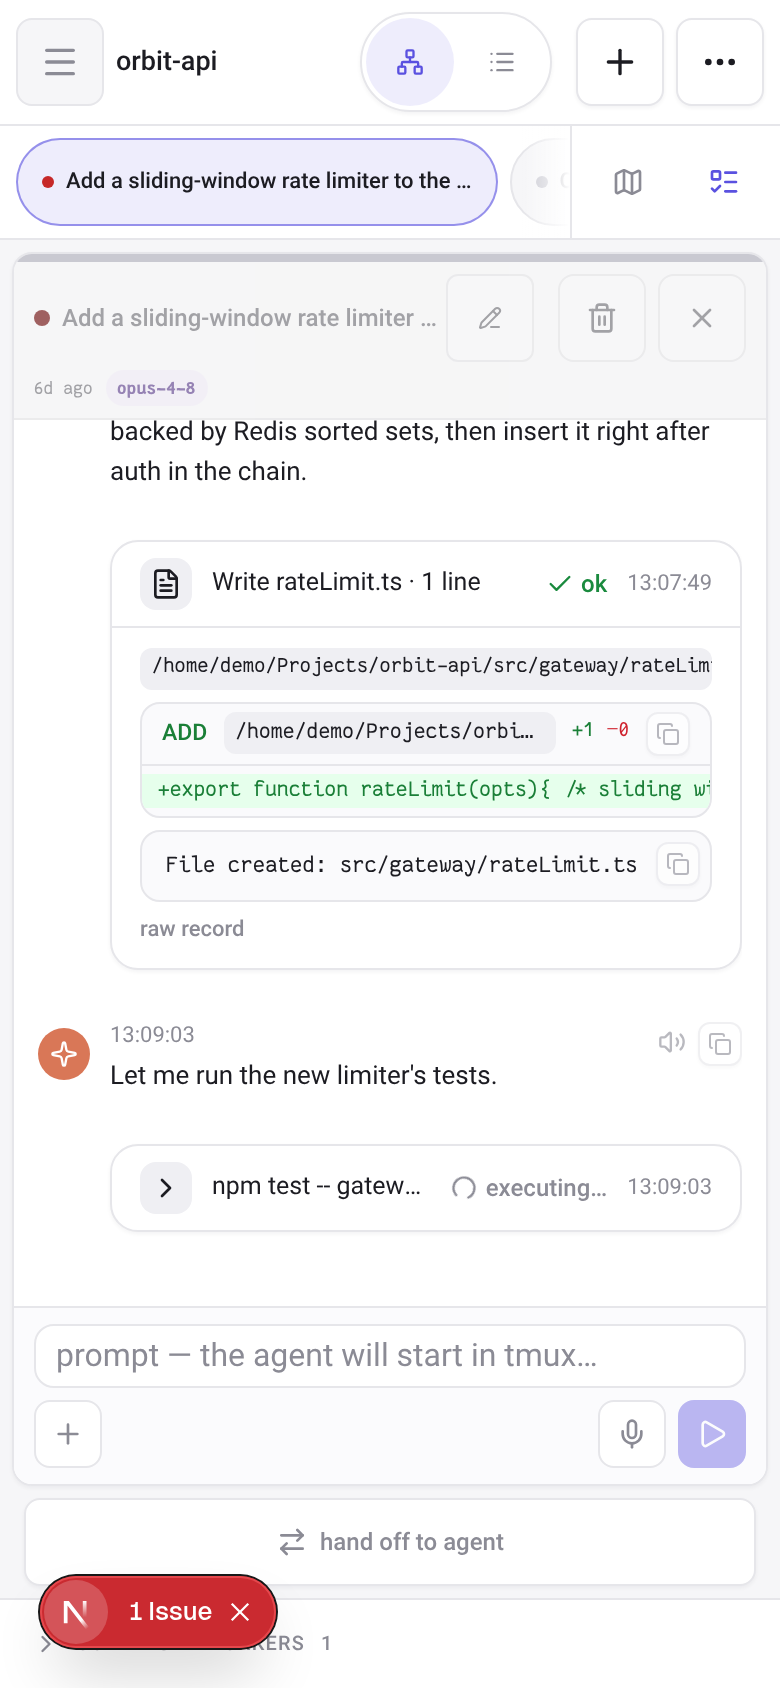
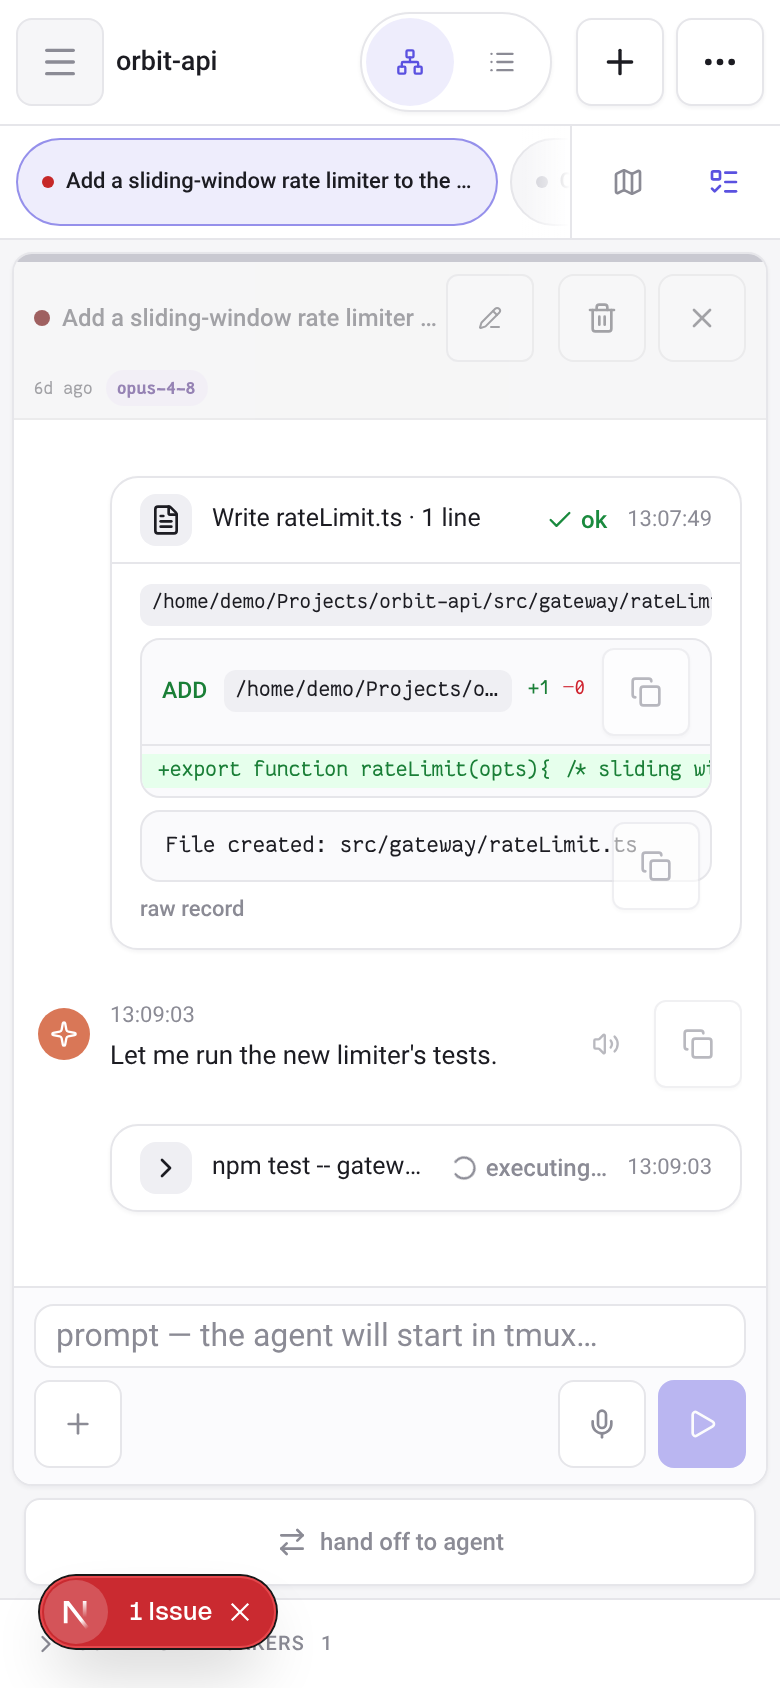
fix: address review round 5 — 44px composer, feed, rename-retry, and drawer controls (#145)
Findings:
- Composer (finding 1): the image and send controls (ComposerBar) plus the mic
  control (MicButton) and the conversation composer's tools (interrupt, compact,
  + toggle, image) are 44px on mobile; desktop keeps the compact p-2.
- Transcript actions (finding 2): the feed CopyButton and SpeakButton triggers
  are 44px on mobile, and the SpeakButton paid-confirmation actions (backend
  picks, cancel, speak) are min-h-11.
- Rename retry (finding 3): the failed-rename Retry uses the same 44px mobile
  sizing as Save/Reset/Cancel.

Sweep of the remaining reachable-at-390px controls, all mobile-gated so desktop
is unchanged: project-drawer rows/overview/archive toggle/filter input
(ProjectRail), and the rail-header language / push-bell / access-QR buttons.

Refresh after-scheme screenshot (44px composer + feed controls).

diff --git a/src/components/MicButton.tsx b/src/components/MicButton.tsx
@@ -3,6 +3,7 @@
 import { useEffect, useRef, useState } from "react";
 
 import { Check, Copy, Loader2, Mic, Square, X } from "@/components/icons";
+import { useIsMobile } from "@/hooks/useIsMobile";
 import { fmtElapsed, METER_HEIGHT, METER_WIDTH, prewarmLiveToken, type UseDictationResult } from "@/hooks/useDictation";
 import { micVisual } from "@/lib/dictationTimer";
 import { translate, useLocale } from "@/lib/i18n";
@@ -216,6 +217,7 @@ export function MicButtonView({
   busy = false,
 }: MicButtonViewProps) {
   const { t } = useLocale();
+  const isMobile = useIsMobile();
   const [menuOpen, setMenuOpen] = useState(false);
   const visual = micVisual({ phase, elapsed, maxSeconds, capStopped });
   const handleMain = () => {
@@ -248,7 +250,9 @@ export function MicButtonView({
           aria-label={t("mic.stopRecognize")}
           title={warn ? t("mic.timeLeft", { time: fmtElapsed(remaining) }) : undefined}
           onClick={handleMain}
-          className={`flex items-center gap-1.5 rounded-[8px] border px-2 py-2 text-[11px] font-bold tabular-nums focus-visible:outline-none focus-visible:ring-2 ${
+          className={`flex items-center gap-1.5 rounded-[8px] border px-2 text-[11px] font-bold tabular-nums focus-visible:outline-none focus-visible:ring-2 ${
+            isMobile ? "min-h-11" : "py-2"
+          } ${
             warn
               ? "border-[#e0ae45]/70 bg-[#fdf3dd] text-[#b07d1f] focus-visible:ring-[#e0ae45]/50"
               : "border-err/50 bg-[#fff2f2] text-err focus-visible:ring-err/40"
@@ -261,7 +265,9 @@ export function MicButtonView({
           type="button"
           aria-label={t("mic.cancel")}
           onClick={discard}
-          className="inline-flex items-center justify-center rounded-[8px] border border-line bg-panel p-2 text-dim hover:text-err focus-visible:outline-none focus-visible:ring-2 focus-visible:ring-accent/40"
+          className={`inline-flex items-center justify-center rounded-[8px] border border-line bg-panel text-dim hover:text-err focus-visible:outline-none focus-visible:ring-2 focus-visible:ring-accent/40 ${
+            isMobile ? "h-11 w-11" : "p-2"
+          }`}
         >
           <X className="h-3.5 w-3.5" aria-hidden />
         </button>
@@ -304,9 +310,9 @@ export function MicButtonView({
           event.preventDefault();
           setMenuOpen((open) => !open);
         }}
-        className={`inline-flex shrink-0 items-center justify-center rounded-[8px] border p-2 focus-visible:outline-none focus-visible:ring-2 focus-visible:ring-accent/40 disabled:opacity-60 ${
-          phase === "starting" ? "border-accent/40 bg-accent/10 text-accent" : "border-line bg-panel text-dim hover:text-accent"
-        }`}
+        className={`inline-flex shrink-0 items-center justify-center rounded-[8px] border focus-visible:outline-none focus-visible:ring-2 focus-visible:ring-accent/40 disabled:opacity-60 ${
+          isMobile ? "h-11 w-11" : "p-2"
+        } ${phase === "starting" ? "border-accent/40 bg-accent/10 text-accent" : "border-line bg-panel text-dim hover:text-accent"}`}
       >
         {phase === "busy" ? (
           <Loader2 className="h-4 w-4 animate-spin" aria-hidden />

diff --git a/src/components/ProjectRail.tsx b/src/components/ProjectRail.tsx
@@ -2,6 +2,7 @@
 
 import { useMemo, useState } from "react";
 
+import { useIsMobile } from "@/hooks/useIsMobile";
 import { useLocale } from "@/lib/i18n";
 import type { FileEntry, ProjectCatalogEntry } from "@/lib/types";
 import type { Pipeline } from "@/lib/pipelines/types";
@@ -36,6 +37,7 @@ interface Props {
 
 export function ProjectRail({ files, projectCatalog, pipelines, workflows, archivedProjects, selected, loaded, now, onSelect }: Props) {
   const { t } = useLocale();
+  const isMobile = useIsMobile();
   const [query, setQuery] = useState("");
   const [archiveOpen, setArchiveOpen] = useState(false);
   const summaries = useMemo(() => buildProjectSummaries(files, now, workflows, projectCatalog, pipelines), [files, now, workflows, projectCatalog, pipelines]);
@@ -69,7 +71,9 @@ export function ProjectRail({ files, projectCatalog, pipelines, workflows, archi
       </header>
       <div className="px-2.5 pb-1 pt-2.5">
         <input
-          className="w-full rounded-[9px] border border-line bg-bg px-2.5 py-1.5 text-[12px] outline-none focus-visible:ring-2 focus-visible:ring-accent/40"
+          className={`w-full rounded-[9px] border border-line bg-bg px-2.5 text-[12px] outline-none focus-visible:ring-2 focus-visible:ring-accent/40 ${
+            isMobile ? "min-h-11" : "py-1.5"
+          }`}
           placeholder={t("rail.filter")}
           value={query}
           onChange={(event) => setQuery(event.target.value)}
@@ -109,7 +113,9 @@ export function ProjectRail({ files, projectCatalog, pipelines, workflows, archi
             <div className="mx-2.5 my-1.5 border-t border-line" />
             <button
               type="button"
-              className="mb-0.5 flex w-full items-center gap-1.5 rounded-[10px] px-2.5 py-1.5 text-left text-[11.5px] font-bold text-dim hover:bg-bg focus-visible:outline-none focus-visible:ring-2 focus-visible:ring-accent/40"
+              className={`mb-0.5 flex w-full items-center gap-1.5 rounded-[10px] px-2.5 text-left text-[11.5px] font-bold text-dim hover:bg-bg focus-visible:outline-none focus-visible:ring-2 focus-visible:ring-accent/40 ${
+                isMobile ? "min-h-11" : "py-1.5"
+              }`}
               aria-expanded={archiveOpen}
               onClick={() => setArchiveOpen((value) => !value)}
             >
@@ -174,10 +180,12 @@ function RailRow({
   muted?: boolean;
   onClick: () => void;
 }) {
+  const isMobile = useIsMobile();
   return (
     <button
       className={[
-        "mb-0.5 flex w-full items-center gap-2 rounded-[10px] border px-2.5 py-2 text-left focus-visible:outline-none focus-visible:ring-2 focus-visible:ring-accent/40",
+        "mb-0.5 flex w-full items-center gap-2 rounded-[10px] border px-2.5 text-left focus-visible:outline-none focus-visible:ring-2 focus-visible:ring-accent/40",
+        isMobile ? "min-h-11" : "py-2",
         active ? "border-line bg-bg shadow-card" : "border-transparent hover:bg-bg",
         muted ? "opacity-65" : "",
       ].join(" ")}

diff --git a/src/components/TmuxComposer.tsx b/src/components/TmuxComposer.tsx
@@ -384,6 +384,8 @@ export function TmuxComposer({ file, pollPaused = false }: { file: FileEntry; po
     </span>
   );
 
+  /* Phone composer controls meet the 44px minimum; desktop keeps the compact p-2. */
+  const iconBtn = isMobile ? "h-11 w-11" : "p-2";
   const liveControls = !spawnMode ? (
     <>
       <Hint label={t("composer.interruptTitle")}>
@@ -392,7 +394,7 @@ export function TmuxComposer({ file, pollPaused = false }: { file: FileEntry; po
           aria-label={t("composer.interruptAria")}
           disabled={interrupting}
           onClick={() => void interrupt()}
-          className="inline-flex shrink-0 items-center justify-center rounded-[8px] border border-line bg-panel p-2 text-dim hover:border-err/40 hover:text-err focus-visible:outline-none focus-visible:ring-2 focus-visible:ring-accent/40 disabled:opacity-50"
+          className={`inline-flex shrink-0 items-center justify-center rounded-[8px] border border-line bg-panel text-dim hover:border-err/40 hover:text-err focus-visible:outline-none focus-visible:ring-2 focus-visible:ring-accent/40 disabled:opacity-50 ${iconBtn}`}
         >
           {interrupting ? <Loader2 className="h-4 w-4 animate-spin" aria-hidden /> : <Square className="h-4 w-4" fill="currentColor" aria-hidden />}
         </button>
@@ -410,7 +412,9 @@ export function TmuxComposer({ file, pollPaused = false }: { file: FileEntry; po
             setCompactArmed(false);
             void compact();
           }}
-          className={`inline-flex shrink-0 items-center justify-center gap-1 rounded-[8px] border p-2 focus-visible:outline-none focus-visible:ring-2 focus-visible:ring-accent/40 disabled:opacity-50 ${
+          className={`inline-flex shrink-0 items-center justify-center gap-1 rounded-[8px] border focus-visible:outline-none focus-visible:ring-2 focus-visible:ring-accent/40 disabled:opacity-50 ${
+            isMobile ? "min-h-11 px-2.5" : "p-2"
+          } ${
             compactArmed
               ? "border-[#0d9488] bg-[#e3f4f0] text-[#0b7c72]"
               : "border-line bg-panel text-dim hover:border-[#0d9488]/50 hover:text-[#0b7c72]"
@@ -540,7 +544,7 @@ export function TmuxComposer({ file, pollPaused = false }: { file: FileEntry; po
                 aria-label={t("composer.moreTools")}
                 title={t("composer.moreTools")}
                 onClick={() => setToolsOpen((value) => !value)}
-                className="inline-flex shrink-0 items-center justify-center rounded-[8px] border border-line bg-panel p-2 text-dim hover:border-accent/45 hover:text-accent focus-visible:outline-none focus-visible:ring-2 focus-visible:ring-accent/40"
+                className={`inline-flex shrink-0 items-center justify-center rounded-[8px] border border-line bg-panel text-dim hover:border-accent/45 hover:text-accent focus-visible:outline-none focus-visible:ring-2 focus-visible:ring-accent/40 ${iconBtn}`}
               >
                 <Plus className={`h-4 w-4 transition-transform ${toolsOpen ? "rotate-45" : ""}`} aria-hidden />
               </button>
@@ -550,7 +554,7 @@ export function TmuxComposer({ file, pollPaused = false }: { file: FileEntry; po
                   {liveControls}
                   <ImagePickerButton
                     ariaLabel={t("composer.addImages")}
-                    className="inline-flex shrink-0 items-center justify-center rounded-[8px] border border-line bg-panel p-2 text-dim hover:text-accent focus-visible:outline-none focus-visible:ring-2 focus-visible:ring-accent/40"
+                    className={`inline-flex shrink-0 items-center justify-center rounded-[8px] border border-line bg-panel text-dim hover:text-accent focus-visible:outline-none focus-visible:ring-2 focus-visible:ring-accent/40 ${iconBtn}`}
                     onFiles={attachments.addFiles}
                   />
                 </>

diff --git a/src/components/feed/SpeakButton.tsx b/src/components/feed/SpeakButton.tsx
@@ -3,6 +3,7 @@
 import { Square, Volume2 } from "lucide-react";
 import { useEffect, useRef, useState, type KeyboardEvent as ReactKeyboardEvent } from "react";
 
+import { useIsMobile } from "@/hooks/useIsMobile";
 import { translate, useLocale } from "@/lib/i18n";
 import { MAX_TTS_TEXT_LENGTH } from "@/lib/tts";
 
@@ -78,6 +79,7 @@ function cacheAudio(key: string, blob: Blob): AudioCacheEntry {
 
 export function SpeakButton({ text }: { text: string }) {
   const { locale, t } = useLocale();
+  const isMobile = useIsMobile();
   const [info, setInfo] = useState<BackendInfo | null>(backendInfo);
   const [confirming, setConfirming] = useState(false);
   const [error, setError] = useState<string | null>(null);
@@ -296,7 +298,7 @@ export function SpeakButton({ text }: { text: string }) {
 
   return (
     <span className="relative">
-      <button ref={triggerRef} type="button" onClick={toggle} className="rounded-md p-1 text-dim opacity-0 transition-opacity hover:bg-chip hover:text-ink focus-visible:opacity-100 focus-visible:outline-none focus-visible:ring-2 focus-visible:ring-accent/40 group-hover/msg:opacity-100 [@media(hover:none)]:opacity-60" aria-label={active ? t("tts.stop") : cached ? t("tts.replay") : t("tts.read")} title={active ? t("tts.stop") : cached ? t("tts.replayFree") : t("tts.readPaid")}>
+      <button ref={triggerRef} type="button" onClick={toggle} className={`inline-flex items-center justify-center rounded-md text-dim transition-opacity hover:bg-chip hover:text-ink focus-visible:opacity-100 focus-visible:outline-none focus-visible:ring-2 focus-visible:ring-accent/40 [@media(hover:none)]:opacity-60 ${isMobile ? "h-11 w-11" : "p-1 opacity-0 group-hover/msg:opacity-100"}`} aria-label={active ? t("tts.stop") : cached ? t("tts.replay") : t("tts.read")} title={active ? t("tts.stop") : cached ? t("tts.replayFree") : t("tts.readPaid")}>
         {active ? <Square className="h-3.5 w-3.5" aria-hidden /> : <Volume2 className="h-3.5 w-3.5" aria-hidden />}
       </button>
       <span role="status" aria-live="polite" className="sr-only">{announcement}</span>
@@ -310,10 +312,10 @@ export function SpeakButton({ text }: { text: string }) {
           <span className="block text-[11px] text-ink">{t("tts.disclosure")}</span>
           {text.length > MAX_TTS_TEXT_LENGTH ? <span className="mt-2 block text-[11px] font-semibold text-err">{t("tts.shorten", { count: MAX_TTS_TEXT_LENGTH.toLocaleString() })}</span> : null}
           {!option.available ? <span className="mt-2 block break-all text-[11px] text-err">{t("tts.missingKey", { provider: option.id, path: option.keyPath })}</span> : null}
-          <span className="mt-2 flex gap-1">{info.options.map((candidate) => <button key={candidate.id} type="button" disabled={info.lockedByEnv} onClick={() => void pickBackend(candidate.id)} className="rounded bg-chip px-2 py-1 text-[10px] font-semibold disabled:opacity-50">{candidate.id}{candidate.id === info.backend ? " ✓" : ""}</button>)}</span>
+          <span className="mt-2 flex flex-wrap gap-1">{info.options.map((candidate) => <button key={candidate.id} type="button" disabled={info.lockedByEnv} onClick={() => void pickBackend(candidate.id)} className={`inline-flex items-center rounded bg-chip text-[10px] font-semibold disabled:opacity-50 ${isMobile ? "min-h-11 px-3" : "px-2 py-1"}`}>{candidate.id}{candidate.id === info.backend ? " ✓" : ""}</button>)}</span>
           <span className="mt-3 flex justify-end gap-2">
-            <button type="button" onClick={closeConfirm} className="rounded px-2 py-1 text-xs text-dim">{t("tts.cancel")}</button>
-            <button type="button" disabled={!option.available} onClick={confirmPaid} className="rounded bg-accent px-2 py-1 text-xs font-bold text-white disabled:opacity-50">{t("tts.speak")}</button>
+            <button type="button" onClick={closeConfirm} className={`inline-flex items-center rounded text-xs text-dim ${isMobile ? "min-h-11 px-3" : "px-2 py-1"}`}>{t("tts.cancel")}</button>
+            <button type="button" disabled={!option.available} onClick={confirmPaid} className={`inline-flex items-center rounded bg-accent text-xs font-bold text-white disabled:opacity-50 ${isMobile ? "min-h-11 px-3" : "px-2 py-1"}`}>{t("tts.speak")}</button>
           </span>
         </span>
       ) : null}

diff --git a/src/components/ComposerBar.tsx b/src/components/ComposerBar.tsx
@@ -4,6 +4,7 @@ import { useEffect, useRef, useState } from "react";
 import type { CSSProperties, ReactNode } from "react";
 
 import { Loader2, Play } from "@/components/icons";
+import { useIsMobile } from "@/hooks/useIsMobile";
 import type { UseComposerReturn } from "@/hooks/useComposer";
 import { prewarmLiveToken } from "@/hooks/useDictation";
 
@@ -145,9 +146,12 @@ export function ComposerBar({
     busy,
     status,
   } = composer;
+  const isMobile = useIsMobile();
   const [sendMenuOpen, setSendMenuOpen] = useState(false);
   const hasSendMenu = sendMenuActions.length > 0;
   const sendDisabled = !canSend && !hasSendMenu;
+  /* Phone action buttons meet the 44px minimum; desktop keeps the compact p-2. */
+  const iconBtn = isMobile ? "h-11 w-11" : "p-2";
 
   return (
     <>
@@ -198,7 +202,7 @@ export function ComposerBar({
             <Hint label={imageAriaLabel}>
               <ImagePickerButton
                 ariaLabel={imageAriaLabel}
-                className="inline-flex shrink-0 items-center justify-center rounded-[8px] border border-line bg-panel p-2 text-dim hover:text-accent focus-visible:outline-none focus-visible:ring-2 focus-visible:ring-accent/40"
+                className={`inline-flex shrink-0 items-center justify-center rounded-[8px] border border-line bg-panel text-dim hover:text-accent focus-visible:outline-none focus-visible:ring-2 focus-visible:ring-accent/40 ${iconBtn}`}
                 onFiles={onImageFiles ?? attachments.addFiles}
               />
             </Hint>
@@ -228,7 +232,7 @@ export function ComposerBar({
                 aria-disabled={!canSend}
                 aria-label={dictationRecording ? sendLabelRecording : sendLabelIdle}
                 style={dictationRecording ? undefined : sendIdleStyle}
-                className={`inline-flex shrink-0 items-center justify-center rounded-[8px] border p-2 text-white focus-visible:outline-none focus-visible:ring-2 focus-visible:ring-accent/50 disabled:opacity-40 aria-disabled:opacity-40 ${
+                className={`inline-flex shrink-0 items-center justify-center rounded-[8px] border text-white focus-visible:outline-none focus-visible:ring-2 focus-visible:ring-accent/50 disabled:opacity-40 aria-disabled:opacity-40 ${iconBtn} ${
                   dictationRecording ? "border-err bg-err hover:opacity-90" : sendIdleClassName
                 }`}
               >

diff --git a/src/components/feed/CopyButton.tsx b/src/components/feed/CopyButton.tsx
@@ -2,6 +2,8 @@
 
 import { useEffect, useRef, useState } from "react";
 
+import { useIsMobile } from "@/hooks/useIsMobile";
+
 import { Check, Copy } from "../icons";
 import { tr } from "./parse";
 
@@ -34,6 +36,7 @@ export async function copyText(text: string): Promise<boolean> {
 /** Ghost icon button that copies `text` and flashes a checkmark. `label`
     names what gets copied (defaults to a plain "copy"). */
 export function CopyButton({ text, label, className = "" }: { text: string; label?: string; className?: string }) {
+  const isMobile = useIsMobile();
   const [copied, setCopied] = useState(false);
   const timer = useRef<number | null>(null);
   useEffect(() => {
@@ -59,9 +62,9 @@ export function CopyButton({ text, label, className = "" }: { text: string; labe
           timer.current = window.setTimeout(() => setCopied(false), 1_400);
         });
       }}
-      className={`inline-flex shrink-0 items-center justify-center rounded-[6px] border border-line bg-panel p-1 text-dim shadow-card hover:text-accent focus-visible:outline-none focus-visible:ring-2 focus-visible:ring-accent/40 ${className}`}
+      className={`inline-flex shrink-0 items-center justify-center rounded-[6px] border border-line bg-panel text-dim shadow-card hover:text-accent focus-visible:outline-none focus-visible:ring-2 focus-visible:ring-accent/40 ${isMobile ? "h-11 w-11" : "p-1"} ${className}`}
     >
-      {copied ? <Check className="h-3 w-3 text-ok" aria-hidden /> : <Copy className="h-3 w-3" aria-hidden />}
+      {copied ? <Check className={isMobile ? "h-4 w-4 text-ok" : "h-3 w-3 text-ok"} aria-hidden /> : <Copy className={isMobile ? "h-4 w-4" : "h-3 w-3"} aria-hidden />}
     </button>
   );
 }

diff --git a/src/components/AccessQrButton.tsx b/src/components/AccessQrButton.tsx
@@ -4,6 +4,7 @@ import { useCallback, useEffect, useRef, useState } from "react";
 
 import { Check, Copy, QrCode } from "lucide-react";
 
+import { useIsMobile } from "@/hooks/useIsMobile";
 import { useLocale } from "@/lib/i18n";
 
 interface AccessResponse {
@@ -20,6 +21,7 @@ type LoadState = { status: "idle" } | { status: "ready"; url: string } | { statu
  */
 export function AccessQrButton() {
   const { t } = useLocale();
+  const isMobile = useIsMobile();
   const [open, setOpen] = useState(false);
   const [state, setState] = useState<LoadState>({ status: "idle" });
   // Keyed by url so a stale QR from a previous render never flashes for the
@@ -106,7 +108,9 @@ export function AccessQrButton() {
           if (!open) setState({ status: "idle" });
           setOpen(!open);
         }}
-        className="flex items-center justify-center rounded-[8px] border border-line bg-panel p-1.5 text-dim hover:border-accent/45 hover:text-accent focus-visible:outline-none focus-visible:ring-2 focus-visible:ring-accent/40"
+        className={`flex items-center justify-center rounded-[8px] border border-line bg-panel text-dim hover:border-accent/45 hover:text-accent focus-visible:outline-none focus-visible:ring-2 focus-visible:ring-accent/40 ${
+          isMobile ? "h-11 w-11" : "p-1.5"
+        }`}
       >
         <QrCode className="h-4 w-4" aria-hidden />
       </button>

diff --git a/src/components/LanguageToggle.tsx b/src/components/LanguageToggle.tsx
@@ -1,14 +1,18 @@
 "use client";
 
+import { useIsMobile } from "@/hooks/useIsMobile";
 import { useLocale } from "@/lib/i18n";
 
 /** Compact EN/UK switch in the rail header; persists to localStorage. */
 export function LanguageToggle() {
   const { locale, t, setLocale } = useLocale();
+  const isMobile = useIsMobile();
   const next = locale === "en" ? "uk" : "en";
   return (
     <button
-      className="inline-flex h-[26px] shrink-0 items-center justify-center rounded-full border border-line bg-panel px-2 text-[10.5px] font-bold text-dim hover:text-ink focus-visible:outline-none focus-visible:ring-2 focus-visible:ring-accent/40"
+      className={`inline-flex shrink-0 items-center justify-center rounded-full border border-line bg-panel px-2 text-[10.5px] font-bold text-dim hover:text-ink focus-visible:outline-none focus-visible:ring-2 focus-visible:ring-accent/40 ${
+        isMobile ? "min-h-11 min-w-11" : "h-[26px]"
+      }`}
       title={t("lang.aria")}
       aria-label={t("lang.aria")}
       onClick={() => setLocale(next)}

diff --git a/src/components/PushBell.tsx b/src/components/PushBell.tsx
@@ -3,6 +3,7 @@
 import { Bell, BellOff } from "lucide-react";
 import { useEffect, useState } from "react";
 
+import { useIsMobile } from "@/hooks/useIsMobile";
 import { useLocale } from "@/lib/i18n";
 
 function b64ToBytes(value: string): ArrayBuffer {
@@ -15,6 +16,7 @@ function b64ToBytes(value: string): ArrayBuffer {
 
 export function PushBell() {
   const { t } = useLocale();
+  const isMobile = useIsMobile();
   const [enabled, setEnabled] = useState(false);
   const [supported, setSupported] = useState(false);
 
@@ -56,7 +58,9 @@ export function PushBell() {
 
   return (
     <button
-      className="inline-flex h-[26px] w-[26px] shrink-0 items-center justify-center rounded-full border border-line bg-panel text-dim hover:text-ink disabled:opacity-45 focus-visible:outline-none focus-visible:ring-2 focus-visible:ring-accent/40"
+      className={`inline-flex shrink-0 items-center justify-center rounded-full border border-line bg-panel text-dim hover:text-ink disabled:opacity-45 focus-visible:outline-none focus-visible:ring-2 focus-visible:ring-accent/40 ${
+        isMobile ? "h-11 w-11" : "h-[26px] w-[26px]"
+      }`}
       title={supported ? (enabled ? t("push.enabled") : t("push.enable")) : t("push.needsHttps")}
       aria-label={supported ? (enabled ? t("push.disable") : t("push.enable")) : t("push.needsHttps")}
       aria-pressed={enabled}

diff --git a/src/components/session/SessionTitle.tsx b/src/components/session/SessionTitle.tsx
@@ -361,7 +361,9 @@ export function SessionTitle({ file, displayMax = 90, titleClassName = "", class
       {retryTitle !== undefined ? (
         <button
           type="button"
-          className="inline-flex shrink-0 items-center rounded-[6px] border border-err/40 bg-bg px-1.5 py-0.5 text-[10px] font-semibold text-err focus-visible:outline-none focus-visible:ring-2 focus-visible:ring-accent/40"
+          className={`inline-flex shrink-0 items-center rounded-[6px] border border-err/40 bg-bg font-semibold text-err focus-visible:outline-none focus-visible:ring-2 focus-visible:ring-accent/40 ${
+            isMobile ? "min-h-11 px-3 text-[12px]" : "px-1.5 py-0.5 text-[10px]"
+          }`}
           onPointerDown={stop}
           onClick={() => void attemptSave(retryTitle, true)}
         >